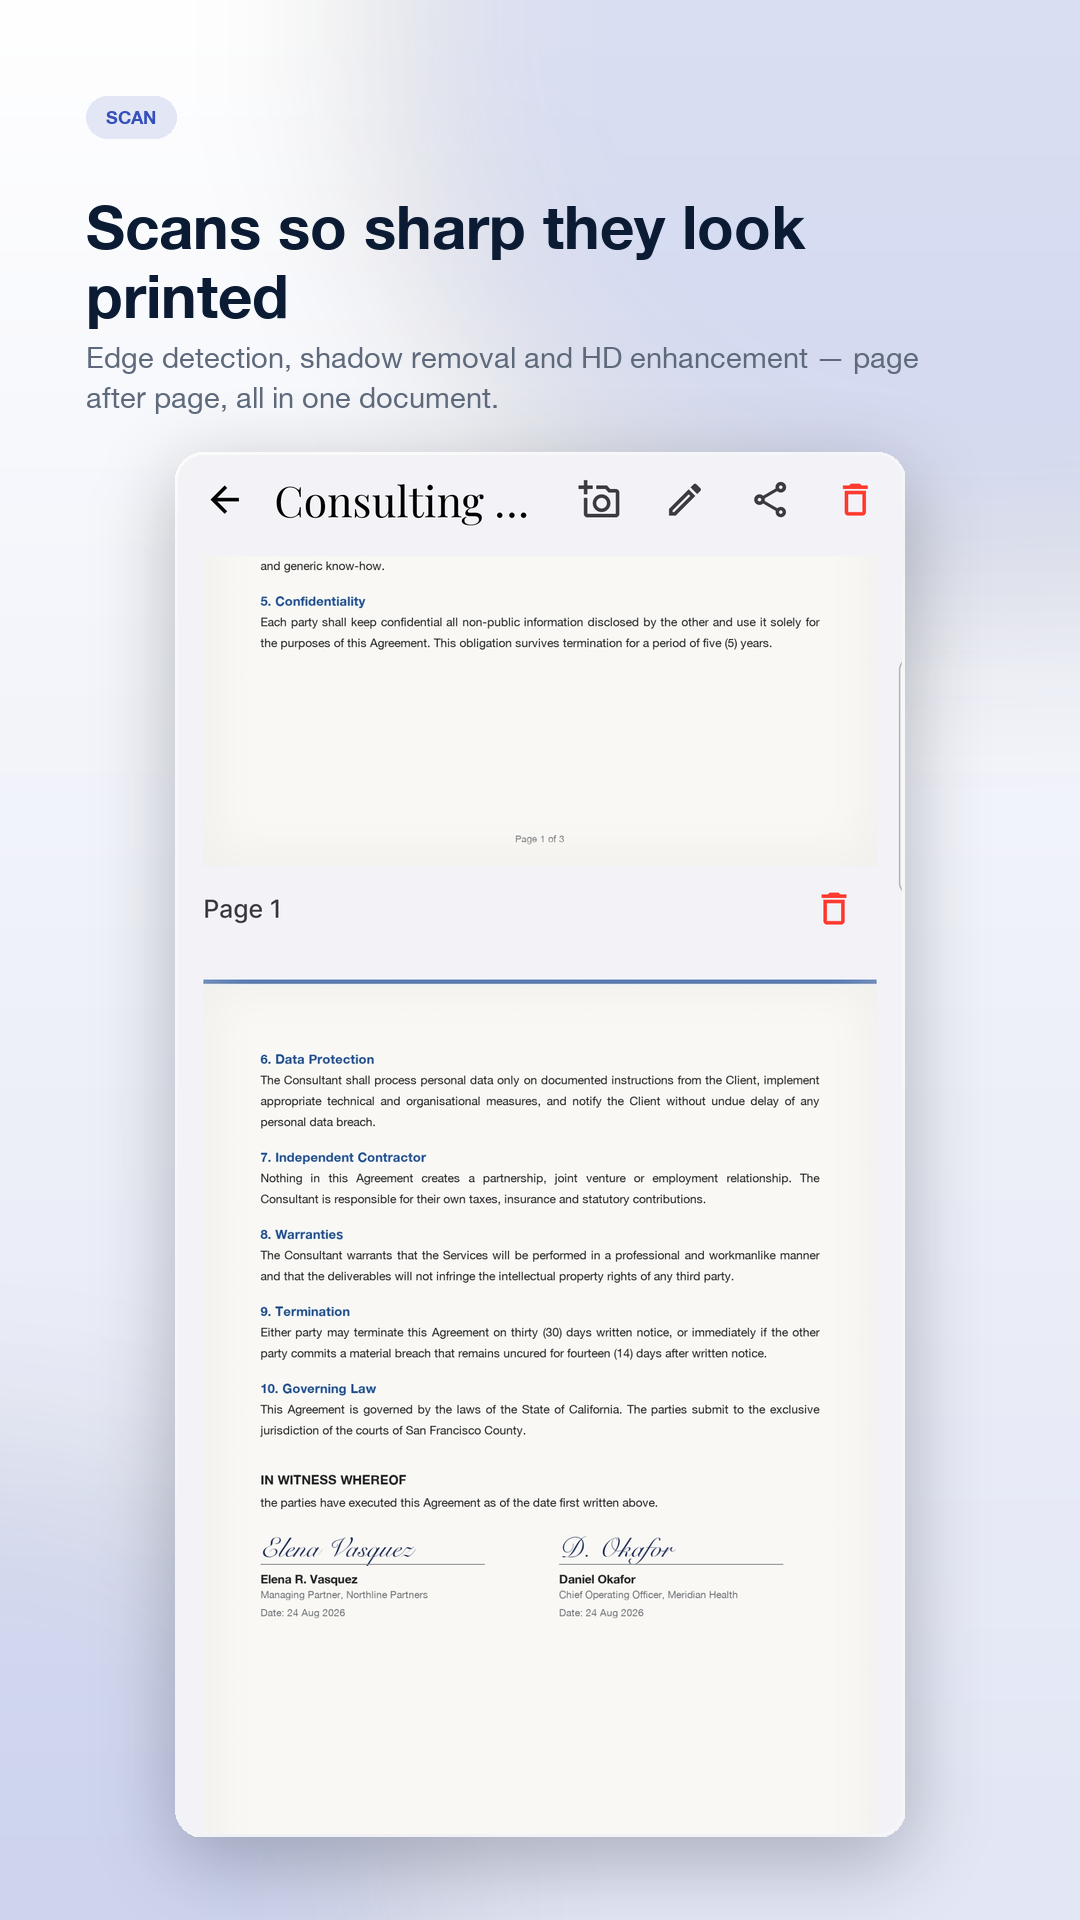
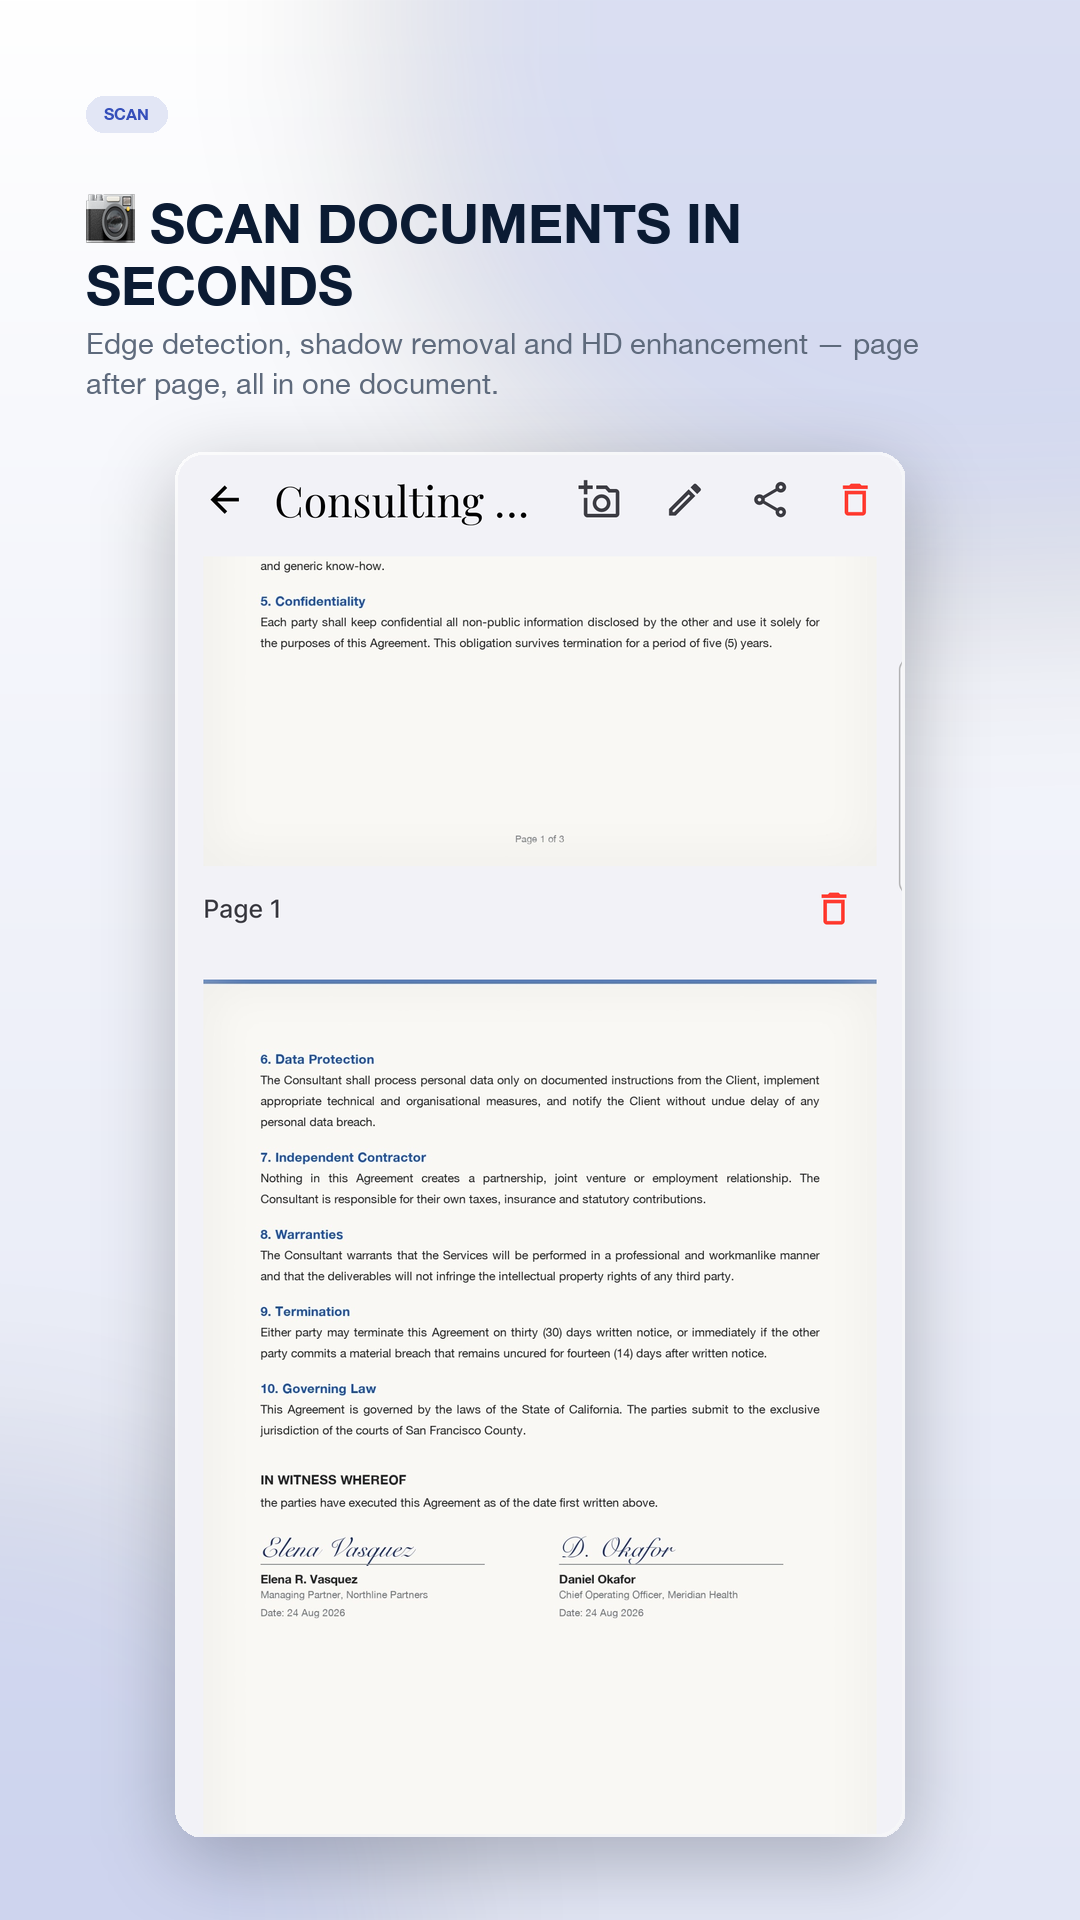
Refresh the screenshots from the current store set
The eight shots are re-copied from the app's fastlane metadata, which was
regenerated today. The lineup changed rather than just the pixels: there is
now a dedicated OCR shot and separate PDF-tools and Drive-backup shots,
while the old sign, find and private ones are gone.

Alt text is rewritten per shot against what each one actually shows, and
the hero keeps 2_en-US_scan.png, whose framing is unchanged but whose
headline is not. The JSON-LD screenshot list follows the new filenames.

Every image is still 1080x1920, so no layout or CSS changes were needed and
the marquee's half-width shift still lands on the seam exactly.

Changed region(s): [[0.0611, 0.0312, 0.7333, 0.2188], [0.7944, 0.1562, 0.8556, 0.1875]]

diff --git a/docs/index.html b/docs/index.html
@@ -305,7 +305,7 @@ footer a:hover{color:var(--title)}
     </div>
     <p class="meta">Android 8.0 and later · Free to use · Optional one-time Pro upgrade</p>
     <div class="hero-shot">
-      <img src="assets/screenshots/2_en-US_scan.png" alt="The Scannera document scanner capturing a page, with the document edges detected automatically" width="1080" height="1920" fetchpriority="high" decoding="async">
+      <img src="assets/screenshots/2_en-US_scan.png" alt="A multi-page consulting agreement scanned in Scannera, shown as sharp, readable pages" width="1080" height="1920" fetchpriority="high" decoding="async">
     </div>
   </section>
 
@@ -414,22 +414,22 @@ footer a:hover{color:var(--title)}
     </div>
     <div class="gallery">
       <div class="gallery-track" role="group" aria-label="Screenshots of Scannera on Android">
-      <figure><img src="assets/screenshots/1_en-US_organise.png" alt="Scannera document library, with scans sorted into colour-coded folders" width="1080" height="1920" loading="lazy" decoding="async"></figure>
-      <figure><img src="assets/screenshots/2_en-US_scan.png" alt="A sharp multi-page contract scanned into a PDF in Scannera" width="1080" height="1920" loading="lazy" decoding="async"></figure>
-      <figure><img src="assets/screenshots/3_en-US_edit.png" alt="Scannera PDF editor, annotating a scanned page with the drawing tools" width="1080" height="1920" loading="lazy" decoding="async"></figure>
-      <figure><img src="assets/screenshots/4_en-US_sign.png" alt="Adding a saved digital signature to a document in Scannera" width="1080" height="1920" loading="lazy" decoding="async"></figure>
-      <figure><img src="assets/screenshots/5_en-US_qr_tools.png" alt="Scannera QR code and barcode tools, including the QR generator" width="1080" height="1920" loading="lazy" decoding="async"></figure>
-      <figure><img src="assets/screenshots/6_en-US_protect.png" alt="Applying a custom text watermark to a document before exporting it" width="1080" height="1920" loading="lazy" decoding="async"></figure>
-      <figure><img src="assets/screenshots/7_en-US_find.png" alt="Searching the Scannera document library by document name" width="1080" height="1920" loading="lazy" decoding="async"></figure>
-      <figure><img src="assets/screenshots/8_en-US_private.png" alt="Scannera privacy settings, showing on-device processing and App Lock" width="1080" height="1920" loading="lazy" decoding="async"></figure>
-      <figure aria-hidden="true"><img src="assets/screenshots/1_en-US_organise.png" alt="" width="1080" height="1920" loading="lazy" decoding="async"></figure>
-      <figure aria-hidden="true"><img src="assets/screenshots/2_en-US_scan.png" alt="" width="1080" height="1920" loading="lazy" decoding="async"></figure>
-      <figure aria-hidden="true"><img src="assets/screenshots/3_en-US_edit.png" alt="" width="1080" height="1920" loading="lazy" decoding="async"></figure>
-      <figure aria-hidden="true"><img src="assets/screenshots/4_en-US_sign.png" alt="" width="1080" height="1920" loading="lazy" decoding="async"></figure>
-      <figure aria-hidden="true"><img src="assets/screenshots/5_en-US_qr_tools.png" alt="" width="1080" height="1920" loading="lazy" decoding="async"></figure>
-      <figure aria-hidden="true"><img src="assets/screenshots/6_en-US_protect.png" alt="" width="1080" height="1920" loading="lazy" decoding="async"></figure>
-      <figure aria-hidden="true"><img src="assets/screenshots/7_en-US_find.png" alt="" width="1080" height="1920" loading="lazy" decoding="async"></figure>
-      <figure aria-hidden="true"><img src="assets/screenshots/8_en-US_private.png" alt="" width="1080" height="1920" loading="lazy" decoding="async"></figure>
+        <figure><img src="assets/screenshots/1_en-US_ondevice.png" alt="Scannera onboarding explaining that scanning, OCR and PDF export all run on your device" width="1080" height="1920" loading="lazy" decoding="async"></figure>
+        <figure><img src="assets/screenshots/2_en-US_scan.png" alt="A multi-page consulting agreement scanned in Scannera, shown as sharp, readable pages" width="1080" height="1920" loading="lazy" decoding="async"></figure>
+        <figure><img src="assets/screenshots/3_en-US_ocr.png" alt="Offline OCR in Scannera: recognised text selected on a scanned invoice, with a Copy option" width="1080" height="1920" loading="lazy" decoding="async"></figure>
+        <figure><img src="assets/screenshots/4_en-US_pdf.png" alt="The Scannera PDF editor, with the annotation toolbar, a highlight and a signature on an invoice" width="1080" height="1920" loading="lazy" decoding="async"></figure>
+        <figure><img src="assets/screenshots/5_en-US_organize.png" alt="The Scannera documents library, with colour-coded Work, Travel, Receipts and Study folders" width="1080" height="1920" loading="lazy" decoding="async"></figure>
+        <figure><img src="assets/screenshots/6_en-US_qr.png" alt="The Scannera QR code generator turning a link into a QR code" width="1080" height="1920" loading="lazy" decoding="async"></figure>
+        <figure><img src="assets/screenshots/7_en-US_watermark.png" alt="The Set watermark screen in Scannera, with saved watermark texts ready to reuse" width="1080" height="1920" loading="lazy" decoding="async"></figure>
+        <figure><img src="assets/screenshots/8_en-US_backup.png" alt="Google Drive backup settings in Scannera, with auto backup, Wi-Fi only and notification toggles" width="1080" height="1920" loading="lazy" decoding="async"></figure>
+        <figure aria-hidden="true"><img src="assets/screenshots/1_en-US_ondevice.png" alt="" width="1080" height="1920" loading="lazy" decoding="async"></figure>
+        <figure aria-hidden="true"><img src="assets/screenshots/2_en-US_scan.png" alt="" width="1080" height="1920" loading="lazy" decoding="async"></figure>
+        <figure aria-hidden="true"><img src="assets/screenshots/3_en-US_ocr.png" alt="" width="1080" height="1920" loading="lazy" decoding="async"></figure>
+        <figure aria-hidden="true"><img src="assets/screenshots/4_en-US_pdf.png" alt="" width="1080" height="1920" loading="lazy" decoding="async"></figure>
+        <figure aria-hidden="true"><img src="assets/screenshots/5_en-US_organize.png" alt="" width="1080" height="1920" loading="lazy" decoding="async"></figure>
+        <figure aria-hidden="true"><img src="assets/screenshots/6_en-US_qr.png" alt="" width="1080" height="1920" loading="lazy" decoding="async"></figure>
+        <figure aria-hidden="true"><img src="assets/screenshots/7_en-US_watermark.png" alt="" width="1080" height="1920" loading="lazy" decoding="async"></figure>
+        <figure aria-hidden="true"><img src="assets/screenshots/8_en-US_backup.png" alt="" width="1080" height="1920" loading="lazy" decoding="async"></figure>
       </div>
     </div>
   </section>
@@ -583,14 +583,14 @@ footer a:hover{color:var(--title)}
       "downloadUrl": "https://play.google.com/store/apps/details?id=com.craftingapps.scannera",
       "image": "https://scannera.in/assets/icon.png",
       "screenshot": [
-        "https://scannera.in/assets/screenshots/1_en-US_organise.png",
+        "https://scannera.in/assets/screenshots/1_en-US_ondevice.png",
         "https://scannera.in/assets/screenshots/2_en-US_scan.png",
-        "https://scannera.in/assets/screenshots/3_en-US_edit.png",
-        "https://scannera.in/assets/screenshots/4_en-US_sign.png",
-        "https://scannera.in/assets/screenshots/5_en-US_qr_tools.png",
-        "https://scannera.in/assets/screenshots/6_en-US_protect.png",
-        "https://scannera.in/assets/screenshots/7_en-US_find.png",
-        "https://scannera.in/assets/screenshots/8_en-US_private.png"
+        "https://scannera.in/assets/screenshots/3_en-US_ocr.png",
+        "https://scannera.in/assets/screenshots/4_en-US_pdf.png",
+        "https://scannera.in/assets/screenshots/5_en-US_organize.png",
+        "https://scannera.in/assets/screenshots/6_en-US_qr.png",
+        "https://scannera.in/assets/screenshots/7_en-US_watermark.png",
+        "https://scannera.in/assets/screenshots/8_en-US_backup.png"
       ],
       "publisher": {
         "@id": "https://scannera.in/#org"
